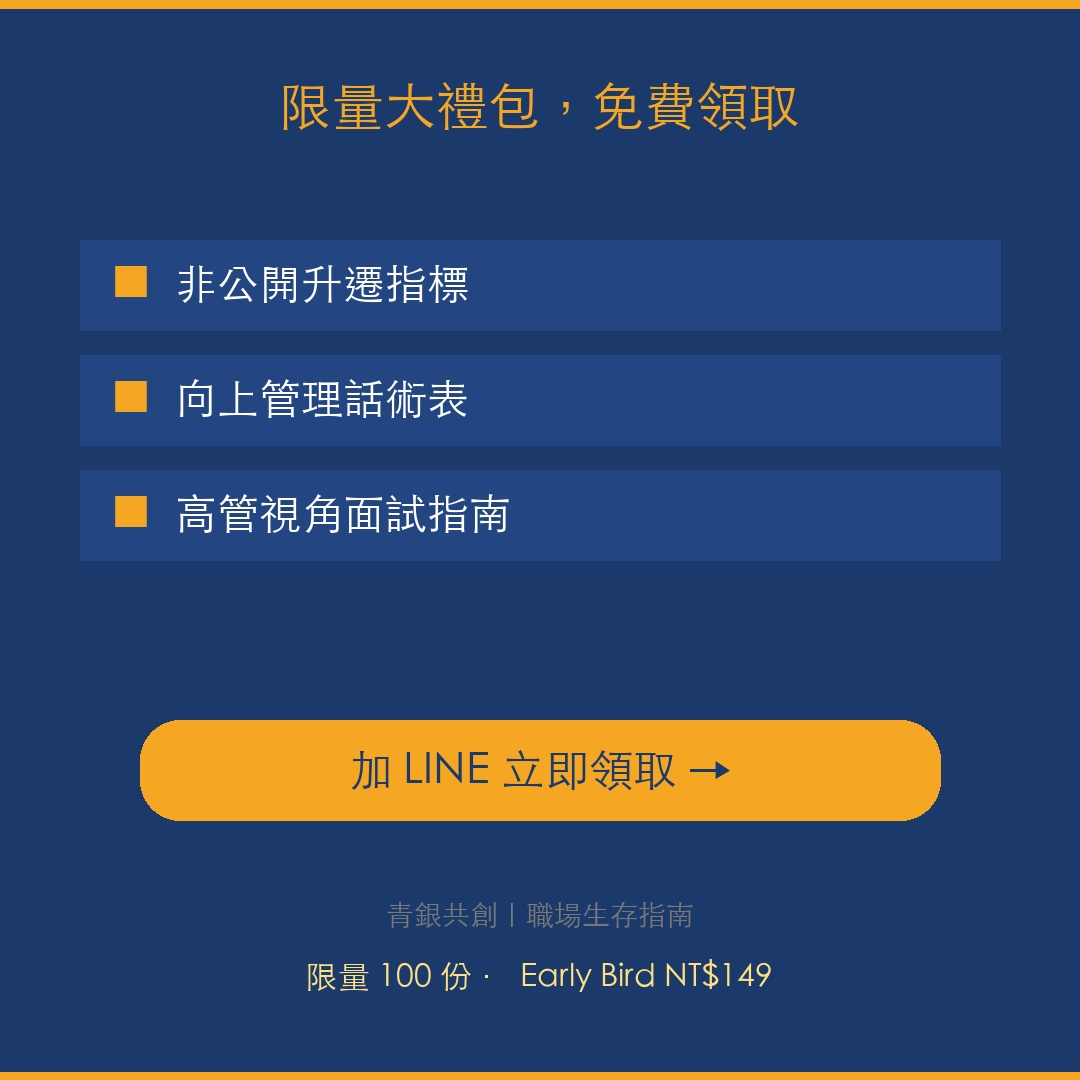
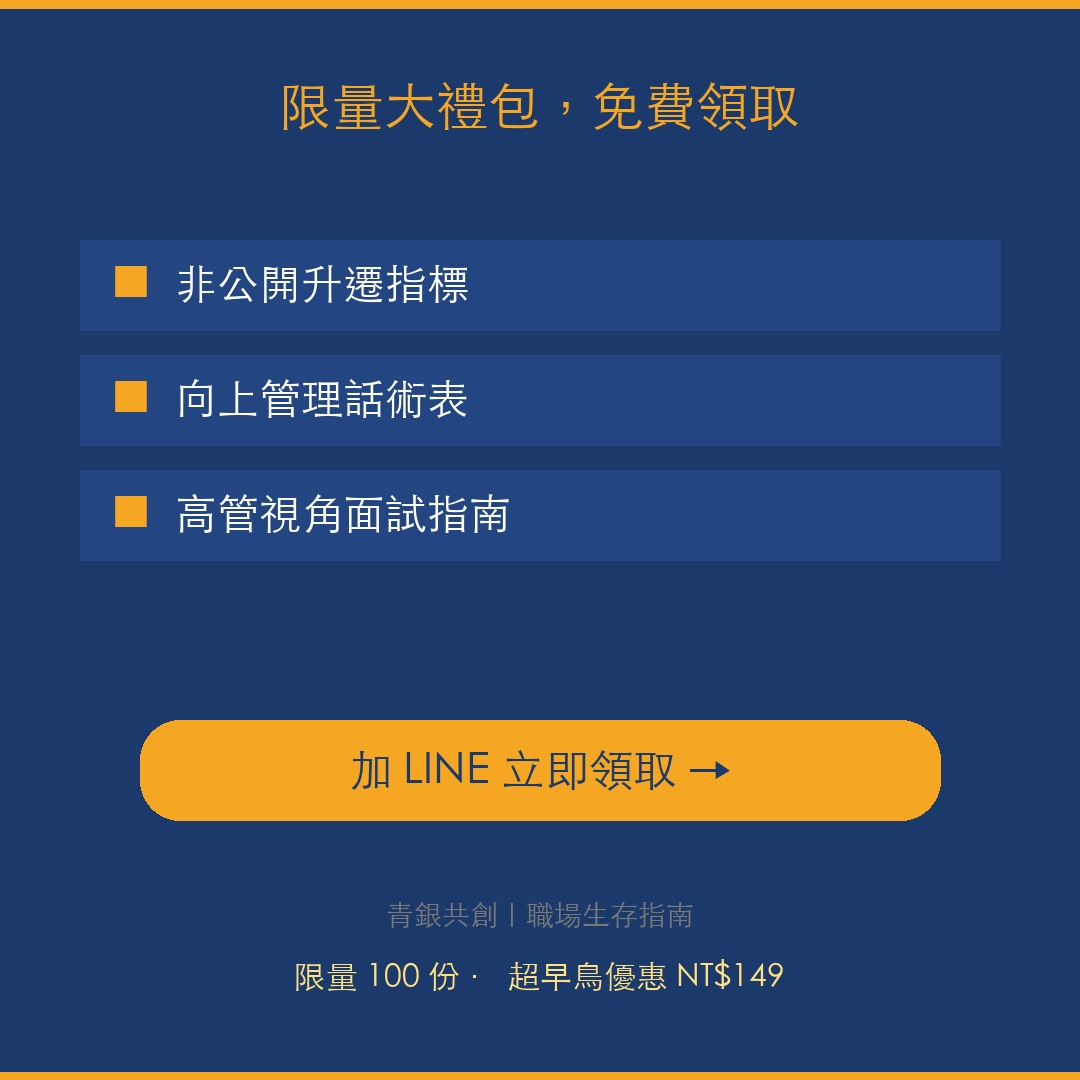
feat: 全面更新「Early Bird」→「超早鳥優惠」（Rich Menu、網站、廣告素材）

Changed region(s): [[0.275, 0.8861, 0.7333, 0.9167]]

diff --git a/form.html b/form.html
@@ -3,7 +3,7 @@
 <head>
 <meta charset="UTF-8">
 <meta name="viewport" content="width=device-width,initial-scale=1">
-<title>Early Bird 搶先登記｜青銀共創</title>
+<title>超早鳥優惠登記｜青銀共創</title>
 <style>
 *{box-sizing:border-box;margin:0;padding:0}
 body{font-family:-apple-system,'PingFang TC',sans-serif;background:#f5f7fa;min-height:100vh;display:flex;align-items:center;justify-content:center;padding:20px}
@@ -33,7 +33,7 @@ input:focus,select:focus{border-color:#1B3A6B}
   <div class="header">
     <div class="brand">青 銀 共 創</div>
     <h1>新鮮人職場生存大禮包<br>搶先登記</h1>
-    <div class="badge">🔥 Early Bird 特惠</div>
+    <div class="badge">🔥 超早鳥優惠</div>
   </div>
   <div class="body">
     <div class="price-box">
@@ -41,7 +41,7 @@ input:focus,select:focus{border-color:#1B3A6B}
         <div class="price-now">NT$149</div>
         <div class="price-orig">正式上線 NT$399</div>
       </div>
-      <div style="font-size:12px;color:#666">登記後享 Early Bird 特惠<br>正式開賣前 48 小時 Email 通知</div>
+      <div style="font-size:12px;color:#666">登記後享 超早鳥優惠<br>正式開賣前 48 小時 Email 通知</div>
     </div>
     <div class="features">
       <div class="feature"><span class="check">✓</span>非公開升遷指標（高管真實評分標準）</div>
@@ -50,7 +50,7 @@ input:focus,select:focus{border-color:#1B3A6B}
     </div>
     <form action="https://formsubmit.co/ainetrender@gmail.com" method="POST">
       <!-- FormSubmit 設定 -->
-      <input type="hidden" name="_subject" value="🎉 新 Early Bird 登記！青銀共創">
+      <input type="hidden" name="_subject" value="🎉 新 超早鳥優惠登記！青銀共創">
       <input type="hidden" name="_captcha" value="false">
       <input type="hidden" name="_next" value="https://brunella328.github.io/qingyin-co-create/thanks.html">
       <input type="hidden" name="_template" value="table">

diff --git a/thanks.html b/thanks.html
@@ -25,9 +25,9 @@ p{color:#555;font-size:15px;line-height:1.7;margin-bottom:20px}
   <div class="body">
     <div class="icon">🎉</div>
     <h1>登記成功！</h1>
-    <p>感謝你的支持！你已獲得 Early Bird 資格。<br><br>
+    <p>感謝你的支持！你已獲得 超早鳥優惠資格。<br><br>
     我們將在正式開賣前 <strong>48 小時</strong> 以 Email 通知你，<br>讓你以 <strong>NT$149</strong> 搶先取得《職場生存大禮包》。</p>
-    <div class="badge">早鳥資格確認 ✓</div>
+    <div class="badge">超早鳥資格確認 ✓</div>
     <p style="margin-top:20px;font-size:13px;color:#999">— 青銀共創團隊</p>
   </div>
 </div>

diff --git a/gift-thanks.html b/gift-thanks.html
@@ -38,10 +38,10 @@ p{color:#555;font-size:14px;line-height:1.8;margin-bottom:24px}
     <hr class="divider">
 
     <p style="font-size:13px;color:#666;margin-bottom:16px">
-      想要完整版？Early Bird 特惠 <strong>NT$149</strong>（正式上線 NT$399）
+      想要完整版？超早鳥優惠 <strong>NT$149</strong>（正式上線 NT$399）
     </p>
     <a href="form.html" class="earlybird-btn">
-      🔥 Early Bird 搶先登記 →
+      🔥 超早鳥優惠登記 →
     </a>
 
     <div class="note">

diff --git a/index.html b/index.html
@@ -39,7 +39,7 @@ h1{color:white;font-size:26px;font-weight:800;line-height:1.4}
       <h2>為什麼你需要這個</h2>
       <p>同期都升遷了，為什麼你還在原地？不是你不夠努力，而是你不知道高管真正在看什麼。我們把這些潛規則全部攤開來。</p>
     </div>
-    <a href="form.html" class="cta-btn">🔥 Early Bird 搶先登記 NT$149</a>
+    <a href="form.html" class="cta-btn">🔥 超早鳥優惠登記 NT$149</a>
   </div>
 </div>
 </body>
